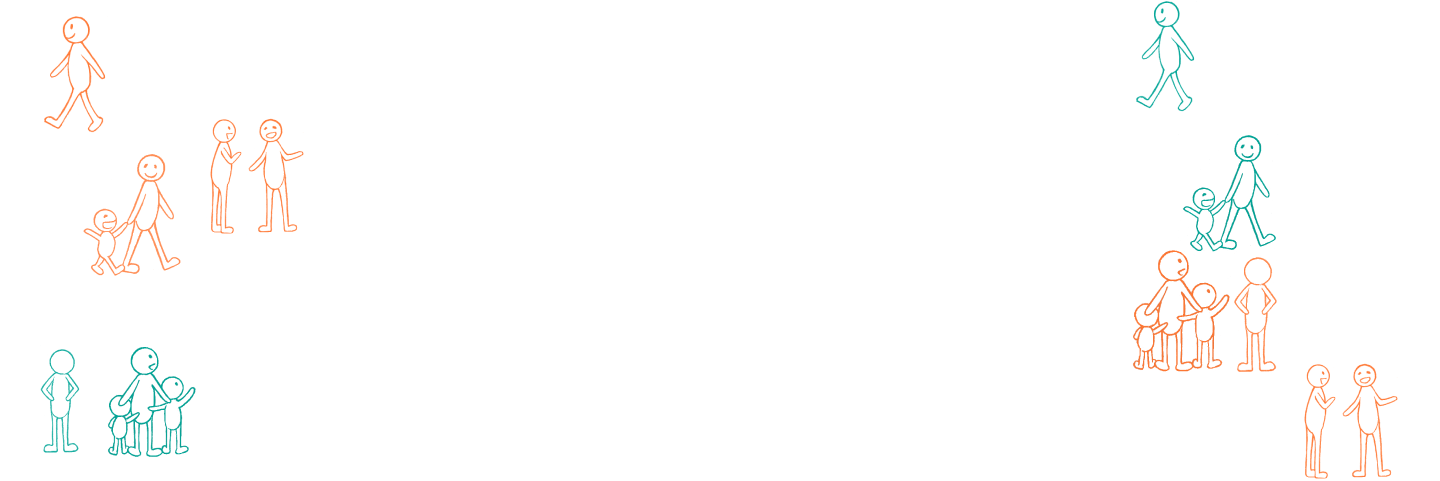
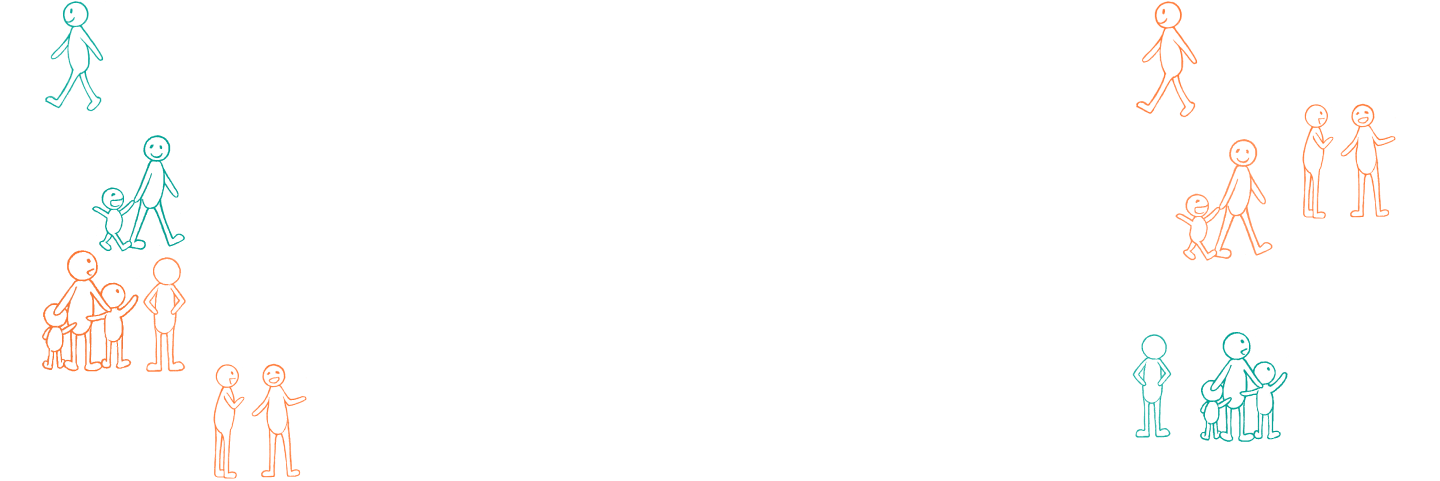
- aboutページへの導線追加  - トップページのメインビジュアル背景画像の修正差し替え  - トップページのコンテンツ入れ替え  - 出展申込リンクをボタン形式からテキストに変更

diff --git a/teaser/index.html b/teaser/index.html
@@ -60,12 +60,12 @@
 				</div>
 				<nav class="nav">
 					<ul class="nav_link">
-						<li><a href="#About" class="smooth">「医療×ざっかふぇす」とは？</a></li>
+						<li><a href="/about/" class="smooth">「医療×ざっかふぇす」とは？</a></li>
 						<li><a href="#Outline" class="smooth">開催概要</a></li>
 						<li><a href="/organizer/">主催者紹介</a></li>
+						<li class="application"><a href="/offer/">出展申込</a></li>
 					</ul>
 					<ul class="nav_button">
-						<li class="application"><a href="/offer/">出展申込</a></li>
 						<li class="contact"><a href="https://docs.google.com/forms/d/e/1FAIpQLScUbvO0yb34Qv_qPa60qianzuQfys06qYAr0XIB7t0WN9ieNw/viewform?usp=sharing" target="_blank">お問合せ</a></li>
 					</ul>
 				</nav>
@@ -75,6 +75,19 @@
 			<div class="icon">
 				<img src="./img/top/recruiting_icon.png" alt="マスコット募集予定！">
 			</div>
+			<section class="about" id="About">
+				<div class="inner">
+					<h2 class="ttl">医療×ざっかふぇすとは？</h2>
+					<p class="txt">
+						医療をテーマにした個性豊かな雑貨やアクセサリーが大集合！<br>
+						入場無料のクリエイティブマーケットです。<br>
+						クリエイターと直接お話しできるアットホームな空間で、作品との新しい出会いを楽しみながら、ゆったりと会場をめぐることができます。 クリエイターとの会話から生まれる発見、来場者同士の自然な交流。温かい雰囲気の中で、思い思いの時間をお過ごしください。
+					</p>
+					<div class="button accent">
+						<a href="./about/">医療×ざっかふぇすとは？</a>
+					</div>
+				</div>
+			</section>
 			<section class="offer">
 				<div class="inner">
 					<h2 class="ttl">出展者の募集を締め切りました</h2>
@@ -85,16 +98,6 @@
 					<div class="button accent">
 						<a href="./offer/">出展案内</a>
 					</div>
-				</div>
-			</section>
-			<section class="about" id="About">
-				<div class="inner">
-					<h2 class="ttl">医療×ざっかふぇすとは？</h2>
-					<p class="txt">
-						医療をテーマにした個性豊かな雑貨やアクセサリーが大集合！<br>
-						入場無料のクリエイティブマーケットです。<br>
-						クリエイターと直接お話しできるアットホームな空間で、作品との新しい出会いを楽しみながら、ゆったりと会場をめぐることができます。 クリエイターとの会話から生まれる発見、来場者同士の自然な交流。温かい雰囲気の中で、思い思いの時間をお過ごしください。
-					</p>
 				</div>
 			</section>
 			<section class="outline" id="Outline">
@@ -133,7 +136,7 @@
 					<nav class="nav">
 						<ul>
 							<li><a href="./offer/">出展案内</a></li>
-							<li><a href="#About" class="smooth">「医療×ざっかふぇす」とは？</a></li>
+							<li><a href="/about/" class="smooth">「医療×ざっかふぇす」とは？</a></li>
 							<li><a href="#Outline" class="smooth">開催概要</a></li>
 							<li><a href="/organizer/">主催者紹介</a></li>
 							<li><a href="https://docs.google.com/forms/d/e/1FAIpQLScUbvO0yb34Qv_qPa60qianzuQfys06qYAr0XIB7t0WN9ieNw/viewform?usp=sharing" target="_blank">お問合せ</a></li>

diff --git a/teaser/organizer/index.html b/teaser/organizer/index.html
@@ -39,12 +39,13 @@
 			</div>
 			<nav class="nav">
 				<ul class="nav_link">
-					<li><a href="../#About" class="smooth">「医療×ざっかふぇす」とは？</a></li>
+					<li><a href="/about/" class="smooth">「医療×ざっかふぇす」とは？</a></li>
 					<li><a href="../#Outline" class="smooth">開催概要</a></li>
 					<li><a href="/organizer/" class="smooth">主催者紹介</a></li>
+					<li class="application"><a href="/offer/">出展申込</a></li>
+					<li class="application"><a href="/offer/">出展申込</a></li>
 				</ul>
 				<ul class="nav_button">
-					<li class="application"><a href="/offer/">出展申込</a></li>
 					<li class="contact"><a href="https://docs.google.com/forms/d/e/1FAIpQLScUbvO0yb34Qv_qPa60qianzuQfys06qYAr0XIB7t0WN9ieNw/viewform?usp=sharing" target="_blank">お問合せ</a></li>
 				</ul>
 			</nav>
@@ -183,7 +184,7 @@
 					<nav class="nav">
 						<ul>
 							<li><a href="#">出展案内</a></li>
-							<li><a href="../#About" class="smooth">「医療×ざっかふぇす」とは？</a></li>
+							<li><a href="/about/" class="smooth">「医療×ざっかふぇす」とは？</a></li>
 							<li><a href="../#Outline" class="smooth">開催概要</a></li>
 							<li><a href="/organizer/">主催者紹介</a></li>
 							<li><a href="https://docs.google.com/forms/d/e/1FAIpQLScUbvO0yb34Qv_qPa60qianzuQfys06qYAr0XIB7t0WN9ieNw/viewform?usp=sharing" target="_blank">お問合せ</a></li>

diff --git a/teaser/offer/index.html b/teaser/offer/index.html
@@ -39,12 +39,12 @@
 			</div>
 			<nav class="nav">
 				<ul class="nav_link">
-					<li><a href="../#About" class="smooth">「医療×ざっかふぇす」とは？</a></li>
+					<li><a href="/about/" class="smooth">「医療×ざっかふぇす」とは？</a></li>
 					<li><a href="../#Outline" class="smooth">開催概要</a></li>
 					<li><a href="/organizer/">主催者紹介</a></li>
+					<li class="application"><a href="/offer/">出展申込</a></li>
 				</ul>
 				<ul class="nav_button">
-					<li class="application"><a href="/offer/">出展申込</a></li>
 					<li class="contact"><a href="https://docs.google.com/forms/d/e/1FAIpQLScUbvO0yb34Qv_qPa60qianzuQfys06qYAr0XIB7t0WN9ieNw/viewform?usp=sharing" target="_blank">お問合せ</a></li>
 				</ul>
 			</nav>
@@ -276,7 +276,7 @@
 					<nav class="nav">
 						<ul>
 							<li><a href="#">出展案内</a></li>
-							<li><a href="../#About" class="smooth">「医療×ざっかふぇす」とは？</a></li>
+							<li><a href="/about/" class="smooth">「医療×ざっかふぇす」とは？</a></li>
 							<li><a href="../#Outline" class="smooth">開催概要</a></li>
 							<li><a href="/organizer/">主催者紹介</a></li>
 							<li><a href="https://docs.google.com/forms/d/e/1FAIpQLScUbvO0yb34Qv_qPa60qianzuQfys06qYAr0XIB7t0WN9ieNw/viewform?usp=sharing" target="_blank">お問合せ</a></li>

diff --git a/teaser/about/index.html b/teaser/about/index.html
@@ -39,12 +39,12 @@
 			</div>
 			<nav class="nav">
 				<ul class="nav_link">
-					<li><a href="/About/" class="smooth">「医療×ざっかふぇす」とは？</a></li>
+					<li><a href="/about/" class="smooth">「医療×ざっかふぇす」とは？</a></li>
 					<li><a href="../#Outline" class="smooth">開催概要</a></li>
 					<li><a href="/organizer/">主催者紹介</a></li>
+					<li class="application"><a href="/offer/">出展申込</a></li>
 				</ul>
 				<ul class="nav_button">
-					<li class="application"><a href="/offer/">出展申込</a></li>
 					<li class="contact"><a href="https://docs.google.com/forms/d/e/1FAIpQLScUbvO0yb34Qv_qPa60qianzuQfys06qYAr0XIB7t0WN9ieNw/viewform?usp=sharing" target="_blank">お問合せ</a></li>
 				</ul>
 			</nav>
@@ -173,7 +173,7 @@
 					<nav class="nav">
 						<ul>
 							<li><a href="#">出展案内</a></li>
-							<li><a href="../#About" class="smooth">「医療×ざっかふぇす」とは？</a></li>
+							<li><a href="/about/" class="smooth">「医療×ざっかふぇす」とは？</a></li>
 							<li><a href="../#Outline" class="smooth">開催概要</a></li>
 							<li><a href="/organizer/">主催者紹介</a></li>
 							<li><a href="https://docs.google.com/forms/d/e/1FAIpQLScUbvO0yb34Qv_qPa60qianzuQfys06qYAr0XIB7t0WN9ieNw/viewform?usp=sharing" target="_blank">お問合せ</a></li>

diff --git a/teaser/scss/top.scss b/teaser/scss/top.scss
@@ -49,9 +49,11 @@
         border-radius: 32px;
         margin: 0 auto;
         @include m.w-contents();
-        padding: 30px 20px 50px;
-        text-align: center;
-        max-height: 80vh;
+        &{
+            padding: 30px 20px 50px;
+            text-align: center;
+            max-height: 80vh;
+        }
         @include m.max-screen(v.$tab) {
             padding: 3% 2% 5%;
         }
@@ -126,7 +128,6 @@
         }
     }
     .offer{
-        background: v.$secondary;
         padding: 24px 0 32px;
         .button{
             margin: 34px auto 0;
@@ -142,6 +143,7 @@
         }
     }
     .about{
+        background: v.$secondary;
         padding: 24px 0 32px;
         .inner{
             .txt{
@@ -151,6 +153,9 @@
                     width: auto;
                 }
             }
+        }
+        .button{
+            margin: 34px auto 0;
         }
     }
     .outline{
@@ -174,7 +179,9 @@
                 .date{
                     dt{
                         @include m.txt-mini();
-                        font-weight: 600;
+                        &{
+                            font-weight: 600;
+                        }
                     }
                     dd{
                         margin-bottom: 16px;

diff --git a/teaser/css/top.css b/teaser/css/top.css
@@ -62,14 +62,16 @@
   border-radius: 32px;
   margin: 0 auto;
   width: 800px;
-  padding: 30px 20px 50px;
-  text-align: center;
-  max-height: 80vh;
 }
 @media screen and (max-width: 840px) {
   .main_box {
     width: 90%;
   }
+}
+.main_box {
+  padding: 30px 20px 50px;
+  text-align: center;
+  max-height: 80vh;
 }
 @media screen and (max-width: 840px) {
   .main_box {
@@ -166,7 +168,6 @@
   position: fixed;
 }
 .contents .offer {
-  background: #00CCBB;
   padding: 24px 0 32px;
 }
 .contents .offer .button {
@@ -182,6 +183,7 @@
   }
 }
 .contents .about {
+  background: #00CCBB;
   padding: 24px 0 32px;
 }
 .contents .about .inner .txt {
@@ -192,6 +194,9 @@
   .contents .about .inner .txt {
     width: auto;
   }
+}
+.contents .about .button {
+  margin: 34px auto 0;
 }
 .contents .outline {
   background: #00A597;
@@ -220,12 +225,14 @@
 }
 .contents .outline .inner .info .date dt {
   font-size: 14px;
-  font-weight: 600;
 }
 @media screen and (max-width: 840px) {
   .contents .outline .inner .info .date dt {
     font-size: 12px;
   }
+}
+.contents .outline .inner .info .date dt {
+  font-weight: 600;
 }
 .contents .outline .inner .info .date dd {
   margin-bottom: 16px;
